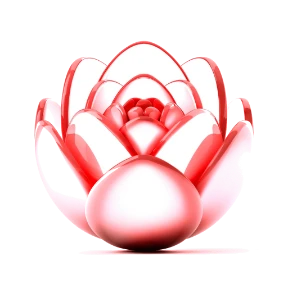
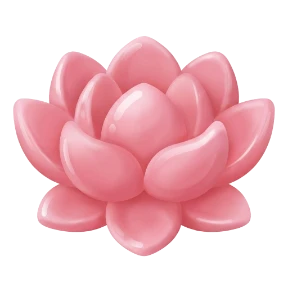
As grades e a Comunidade passam a seguir o coração de referência
As 26 peças que ainda eram do vidro tecnológico foram refeitas com a mesma
imagem de referência dos ícones da Saúde: os seis quadrados do Bebê, as
grades de Consultas, Bem-estar e Registros, e as seis portas da Comunidade.
Os nomes dos arquivos não mudaram, então nenhum import foi tocado.

Medido: 5.508 testes, tsc e lint limpos; as quatro grades e a Comunidade
fotografadas com console limpo.

Claude-Session: https://claude.ai/code/session_01BJM25tJAqQNE1gvk3FSNXP

diff --git a/CLAUDE.md b/CLAUDE.md
@@ -12644,3 +12644,24 @@ Feito em CSS, em `GradeHub`, para TODAS as grades com imagem — zero crédito.
   na referência do dono, não com um tamanho por grade.
 
 **Bancadas:** `/preview-saude?w=20&dados=1` · `/preview-grades` (a do Bebê).
+
+### As grades e a Comunidade seguiram o coração (set/2026)
+
+Pedido do dono: "esses outros — semana, álbum etc. — estão muito ruins, devem
+ficar no design desse de saúde". As 26 peças que ainda eram do vidro
+tecnológico foram refeitas com a MESMA referência e o MESMO prompt da Saúde
+(`nano_banana_pro` + `image_references`, 2 cr cada, 52 no total): Bebê (6),
+Consultas (7), Bem-estar (5), Registros (2 — chutes e contrações já eram os da
+Saúde) e as seis portas da Comunidade. Nenhuma precisou ser refeita: com a
+referência, 26 de 26 saíram na família de primeira.
+
+- O `pipeline.mjs` desta leva vive em `scratchpad/ref-grades/` e grava direto
+  com o caminho do asset (`bebe/semana`, `grades/agenda`…), então instalar é
+  um `cp` por pasta. Os nomes NÃO mudaram: nenhum `import` foi tocado.
+- ⚠ **`generate_image_batch` aceita 12 por chamada, e eu contei 13 duas
+  vezes.** A validação recusa a chamada inteira, sem submeter nada — barato,
+  mas custa uma volta. Contar antes de mandar.
+- O que continua em vidro: o Cantinho (90 premium) e os domos dos conjuntos
+  (13). Refazer os dois na referência custa ~206 cr, fora do teto atual.
+
+**Bancadas:** `/preview-grades` (as quatro grades) · `/preview-comunidade?vivo=1`.
